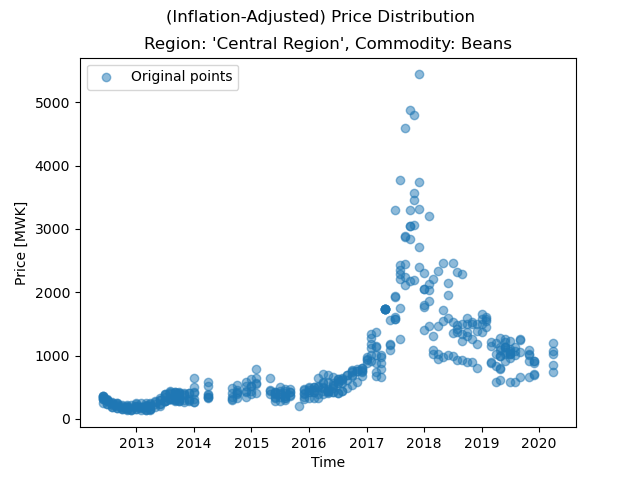
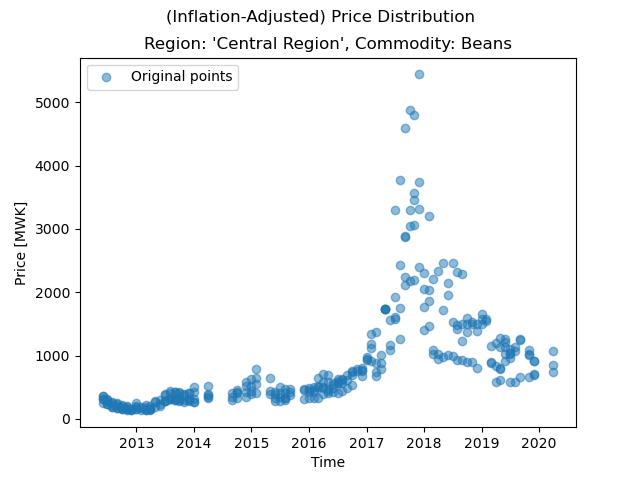
Extract intersection of time per region

Changed region(s): [[0.5938, 0.4688, 0.875, 0.7812], [0.4375, 0.6562, 0.625, 0.875], [0.1562, 0.7812, 0.4375, 0.8438]]

diff --git a/src/preprocessing.py b/src/preprocessing.py
@@ -452,6 +452,59 @@ def extract_df_subset_time_prices(df_commodity, epsilon_month=0):
     return df_commodity, min_time, max_time
 
 
+def extract_intersec_subset_time_per_region_for_commodity(df_commodity):
+    """
+    For one specific commodity, check the missing values per region
+    (as regional patterns are interpolated) and extract the
+    time slice per region (first non-nan to last non-nan value)
+
+    Then, extract the intersection of these time slices and return the
+    subset that refers to that intersection.
+
+    :param df_commodity: pd.DataFrame
+        Dataframe containing only data for one commodity
+    :return:
+    """
+    country = df_commodity.Country.unique()[0]
+    commodity = df_commodity.Commodity.unique()[0]
+    output_dir = f"../output/{country}/summary-statistics/preproc-STEP3-time-slice-per-region"
+    if os.path.exists(output_dir) is False:
+        os.makedirs(output_dir)
+
+    # Group by region
+    df_commodity_by_region = df_commodity.groupby("Region")
+
+    # Extract min and max date per region
+    min_date_per_region = df_commodity_by_region.TimeWFP.min()
+    max_date_per_region = df_commodity_by_region.TimeWFP.max()
+
+    # write results to excel
+    output_excel = f"{output_dir}/{country}-{commodity}-time-slice-per-region.xlsx"
+
+    # mode = "a" if os.path.exists(output_excel) else "w"
+    # write excel new everytime you execute it
+    mode = "w"
+
+    # write dropped commodities to (existing) excel as new sheet
+    with pd.ExcelWriter(
+            output_excel, mode=mode) as writer:
+
+        min_date_per_region.to_excel(writer, sheet_name=f"Min Dates")
+        max_date_per_region.to_excel(writer, sheet_name="Max Dates")
+
+    # Find intersection of the dates (smallest overlapping time slice)
+    min_date = min_date_per_region.max()
+    max_date = max_date_per_region.min()
+
+    # Extract only the subset of data (intersection of time)
+    # everything <= maxdate
+    df_commodity = df_commodity[df_commodity.TimeWFP <= max_date]
+    # everything >= mindate
+    df_commodity = df_commodity[df_commodity.TimeWFP >= min_date]
+
+    return df_commodity, min_date, max_date
+
+
 def extract_df_subset_time_prices_all_commodities(df, add_pad_months_time_span=0, write_excel=True,
                                                   return_time_spans=False):
     """
@@ -476,9 +529,14 @@ def extract_df_subset_time_prices_all_commodities(df, add_pad_months_time_span=0
         # Limit the dfs to specific subset
         df_commodity = df[df.Commodity == commodity]
 
-        # call subset extraction function
+        # call subset extraction function -> find union of time
         df_commodity, min_time, max_time = extract_df_subset_time_prices(df_commodity=df_commodity,
                                                                          epsilon_month=add_pad_months_time_span)
+
+        # call subset extraction function -> find intersection of time
+        # (per region as interpolated by region afterwards)
+        df_commodity, min_time, max_time = extract_intersec_subset_time_per_region_for_commodity(df_commodity=
+                                                                                                 df_commodity)
 
         # store min and max time for further use/ documentation
         min_max_times_dict[commodity] = (min_time, max_time)
@@ -506,41 +564,12 @@ def extract_df_subset_time_prices_all_commodities(df, add_pad_months_time_span=0
         return df
 
 
-def extract_df_subset_time_region_all_commodities(df_wfp, add_pad_months_time_span=0, write_excel=True):
-    """
-    For all commodities, do not extract subset of time in general,
-    but intersection of time slices per region.
-
-    :return:
-    """
-    dict_times_region_commodity = {}
-    dict_dfs_per_region = {}
-    # compute time spans per region
-    for region in df_wfp.Region.unique():
-        df_wfp_region = df_wfp[df_wfp.Region == region]
-        df_region_reduced, min_max_times_dict = extract_df_subset_time_prices_all_commodities(df=df_wfp_region, add_pad_months_time_span=add_pad_months_time_span,
-                                                      write_excel=False, return_time_spans=True)
-        dict_times_region_commodity[region] = min_max_times_dict
-
-    # per commodity find min time:
-    for commodity in df_wfp.Commodity.unique():
-        pass
-
-
-
-    # TODO continue this later, OR:
-    # TODO...actually I should check missings not per commodity, but per region (later on) - if I do not take this step
-    # ...but: overengineering? Too complicated to follow even though more accurate?
-
-
-
-
-
-
 def read_climate_data(time_slice, long_slice, lat_slice, country,
                       path_to_netcdf="../input/Global/climate-dta/spei01.nc"):
     """
     Reads the netcdf and converts it into a pandas df
+    Only extract the relevant subset of this (based on the ranges of time, lon, lat which
+    are passed via the slice argument)
 
     :param path_to_netcdf:
     :return:

diff --git a/src/dataset_creation.py b/src/dataset_creation.py
@@ -15,22 +15,25 @@ import visualization
 # cut off markets: 0.5, cut off commodities: 0.8
 # Focus commodities: cut off: 0.4, 0.8 -> still to high
 
+# overall missings below 30%: cut_off_markets = 0.4, cut_off_commodities = 0.75
+# a bit better: cut_off_marekts = 0.35, cut_off_commodities = 0.75 (17 Markets)
+
 def phase_a_preprocess_wfp_dataset(country, dropped_commodities,
                                    add_pad_months_time_span=0,
                                    cut_off_commodities=0.75,
-                                   cut_off_markets=0.4,
+                                   cut_off_markets=0.35,
                                    limit_consec_interpol=42
                                    ):
     """
     Read raw WFP database and do the following steps:
 
-    - STEP 1: Download raw WFP data (per region & merge into one df)
-    - STEP 2: Merge Inflation data + Adjust food prices to one common inflation level (most recent)
-    - STEP 3: Reduce % missings -> Subset Time: Extract relevant time slice per commodity
+    - STEP 1 -> Download raw WFP data (per region & merge into one df)
+    - STEP 2 -> Merge Inflation data + Adjust food prices to one common inflation level (most recent)
+    - STEP 3 -> Reduce % missings -> Subset Time: Extract relevant time slice per commodity
                                                 (first non-nan entry -> last non-nan entry)
-    - STEP 4: Reduce % missings -> Subset Commodity: Cut off commodities with certain share of missings
-    - STEP 5: Reduce % missings -> Subset Market:
-    - STEP 6: Inter-/Extrapolate missing data
+    - STEP 4 -> Reduce % missings -> Subset Commodity: Cut off commodities with certain share of missings
+    - STEP 5 -> Reduce % missings -> Subset Market:
+    - STEP 6 -> Inter-/Extrapolate missing data
 
     :param country:
     :param dropped_commodities:
@@ -271,7 +274,7 @@ def phase_b_merge_wfp_with_spei_dataset(country, df_wfp_preproc, write_results_t
     print("\n# ------------------------------------------------------------------------------------------------------\n"
           "# PREPROC - WRITING RESULTS INTO EXCELS."
           "\n# ------------------------------------------------------------------------------------------------------\n")
-   if write_results_to_excel:
+    if write_results_to_excel:
         dict_df_final_per_commodity = {}
         for commodity in df_final.Commodity.unique():
             df_final_commodity = df_final[df_final.Commodity == commodity]
@@ -284,7 +287,7 @@ def phase_b_merge_wfp_with_spei_dataset(country, df_wfp_preproc, write_results_t
                                                      df_drought=df_drought,
                                                      df_no_drought=df_no_drought)
 
-   return df_final
+    return df_final
 
 
 def create_dataset(country, dropped_commodities, write_results_to_excel=True):

diff --git a/src/main.py b/src/main.py
@@ -34,8 +34,10 @@ if __name__ == "__main__":
     # dropped_commodities = None
 
     # TODO: Outcomment this line if dataset hat not yet been created
-    df_final = dataset_creation.create_dataset(country=country, dropped_commodities=dropped_commodities,
-                                               write_results_to_excel=False)
+    # df_final = dataset_creation.create_dataset(country=country, dropped_commodities=dropped_commodities,
+    #     #                                            write_results_to_excel=True)
+
+    dataset_creation.phase_a_preprocess_wfp_dataset(country=country, dropped_commodities=dropped_commodities)
 
     print("\n# ------------------------------------------------------------------------------------------------------\n"
           "# ANALYSIS"
